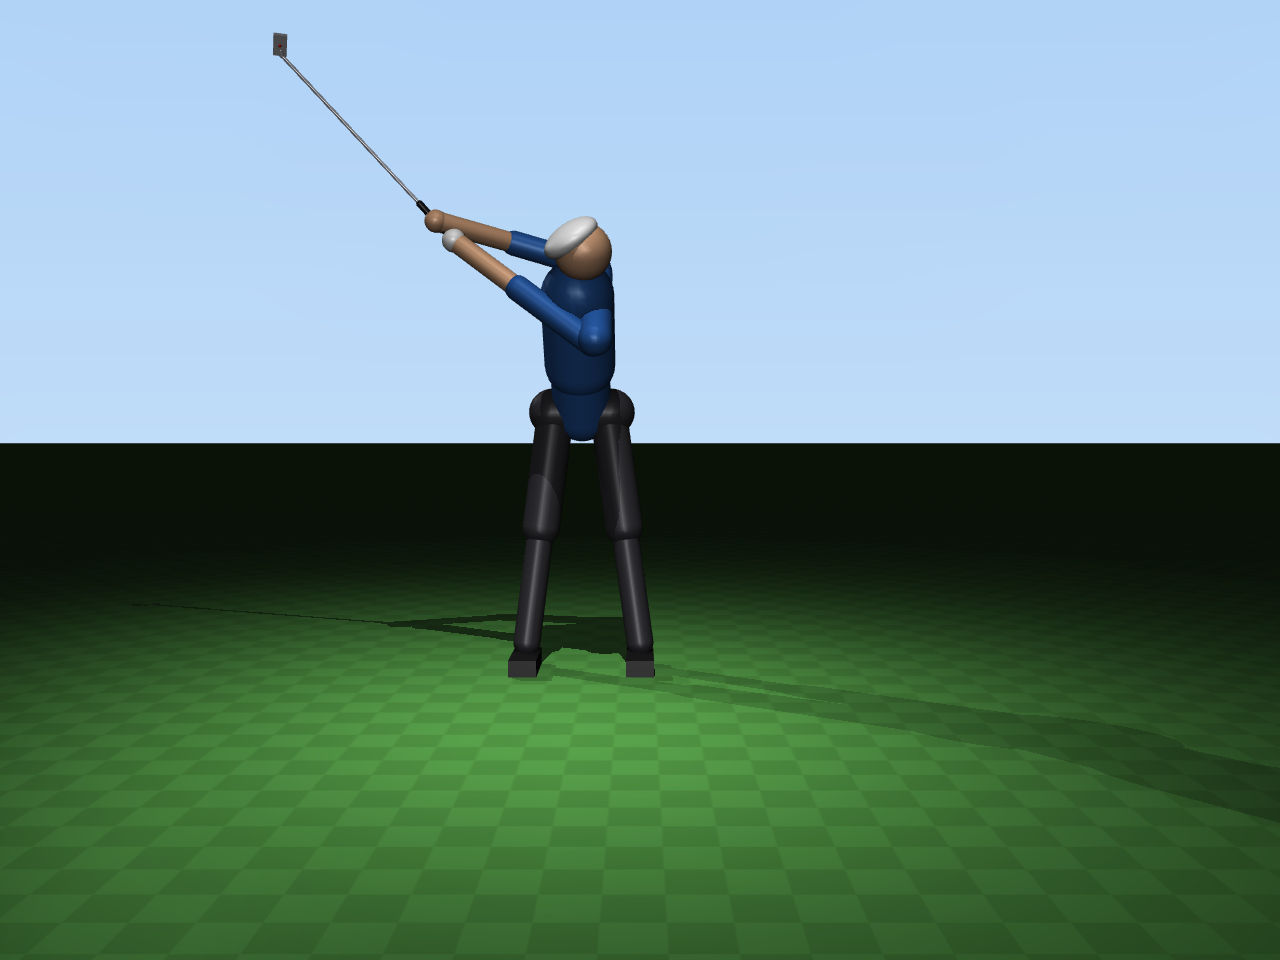
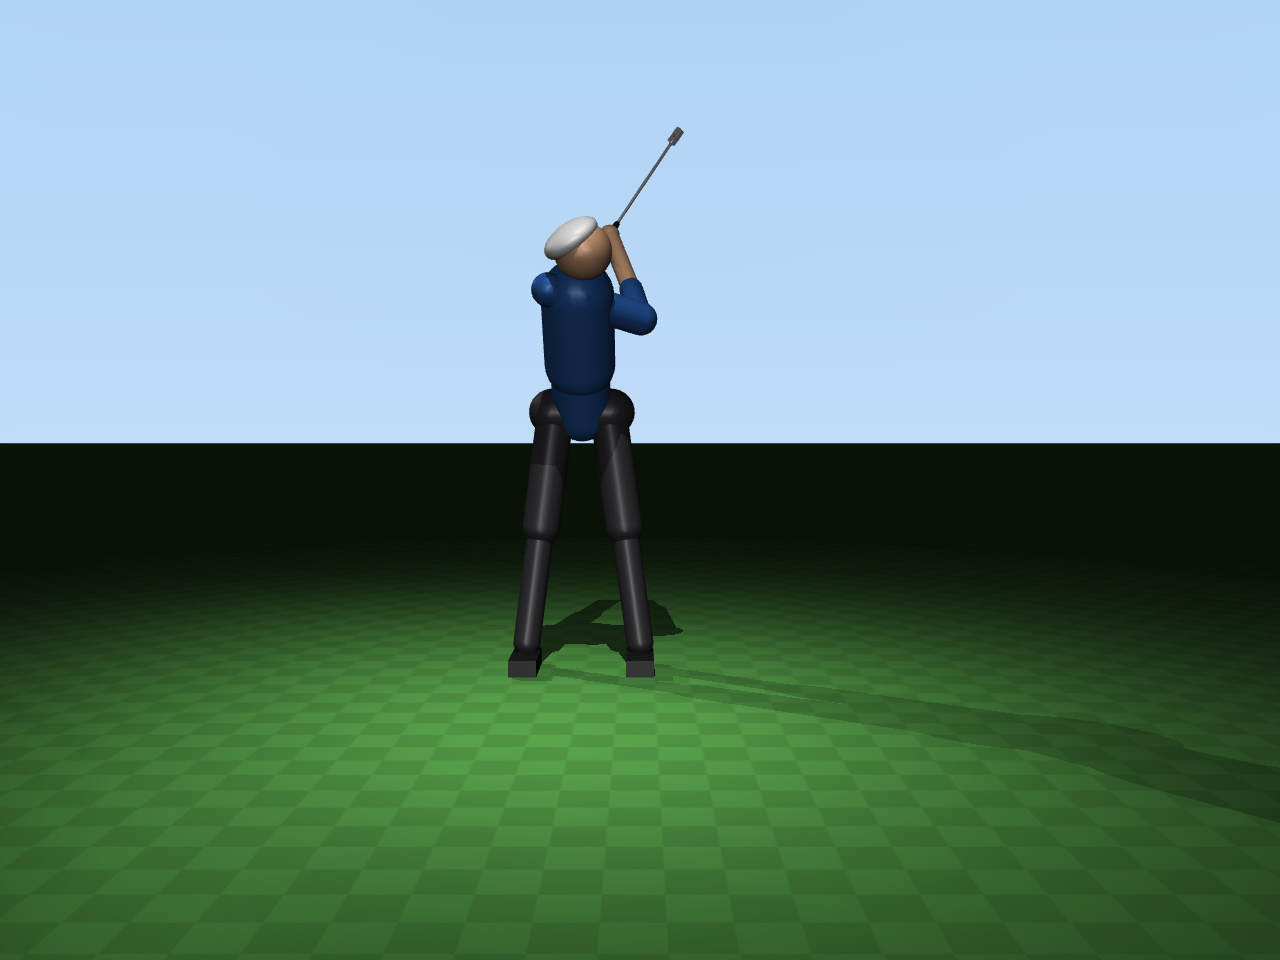
Lab1: ombros ligados aos bracos e fim do swing sem dar a volta
Dois problemas visiveis no viewer:

1. Os ombros descolavam a meio do swing. O geom 'shoulders' pertencia ao TRONCO
   mas os bracos rodam noutro corpo, por isso separavam-se. Passa para o corpo
   'arms', acompanhando os bracos.

2. Os bracos davam praticamente uma volta completa ao peito no follow-through.
   A parabola do downswing era deixada correr ate 1.6*T e ia bater no limite da
   junta (+167 graus), somando ~300 graus de rotacao. Agora para em 1.35*T e o
   limite da junta desce de 170 para 95 graus, que e a ordem de grandeza de um
   finish real.

Backswing dos bracos reduzido de 135 para 125 graus (mais realista). Custa
1.2 m/s: 26.9 -> 25.7 m/s, smash 1.29, carry 102 m.

diff --git a/Lab1/src/swing.py b/Lab1/src/swing.py
@@ -56,7 +56,7 @@ MODEL = "models/golfer_v13.xml"
 # ----------------------------------------------------------------------------
 DEFAULTS = dict(
     q_top_torso=-97.0,      # rotação de ombros no topo do backswing [deg]
-    q_top_shoulder=-135.0,  # ângulo braços+taco no topo [deg]
+    q_top_shoulder=-125.0,  # ângulo braços+taco no topo [deg]
     t_back=0.75,            # duração do backswing [s]
     t_pause=0.05,           # pausa no topo [s]
     t_down=0.38,            # topo -> impacto [s]
@@ -117,12 +117,16 @@ def reference(t, p):
     # 2.0*|q_topo|/T de velocidade no impacto contra 1.57*|q_topo|/T do cosseno
     # (+27 %). Com o cosseno, o pico de binário cai todo no início do
     # downswing, onde a velocidade ainda é zero — desperdício.
+    # O fator 1.35 limita o follow-through: a parábola, se a deixassem correr,
+    # levava as juntas muito para lá do limite e os braços davam a volta completa
+    # ao peito. Com 1.35 a pose final fica ~0.82*|q_topo| depois do impacto, que
+    # é a ordem de grandeza de um "finish" real.
     u = t - t_start_down
-    tau = min(u / t_down, 1.6)                       # 1.6 = fim do follow-through
+    tau = min(u / t_down, 1.35)                      # 1.35 = fim do follow-through
     q = q_top * (1.0 - tau**2)
     v = -q_top * 2.0 * tau / t_down
     a = -q_top * 2.0 * np.ones(2) / t_down**2
-    if u / t_down >= 1.6:                            # pose final estática
+    if u / t_down >= 1.35:                           # pose final estática
         v[:] = 0.0
         a[:] = 0.0
     # A referência nunca pode sair dos limites das juntas declarados no XML,
